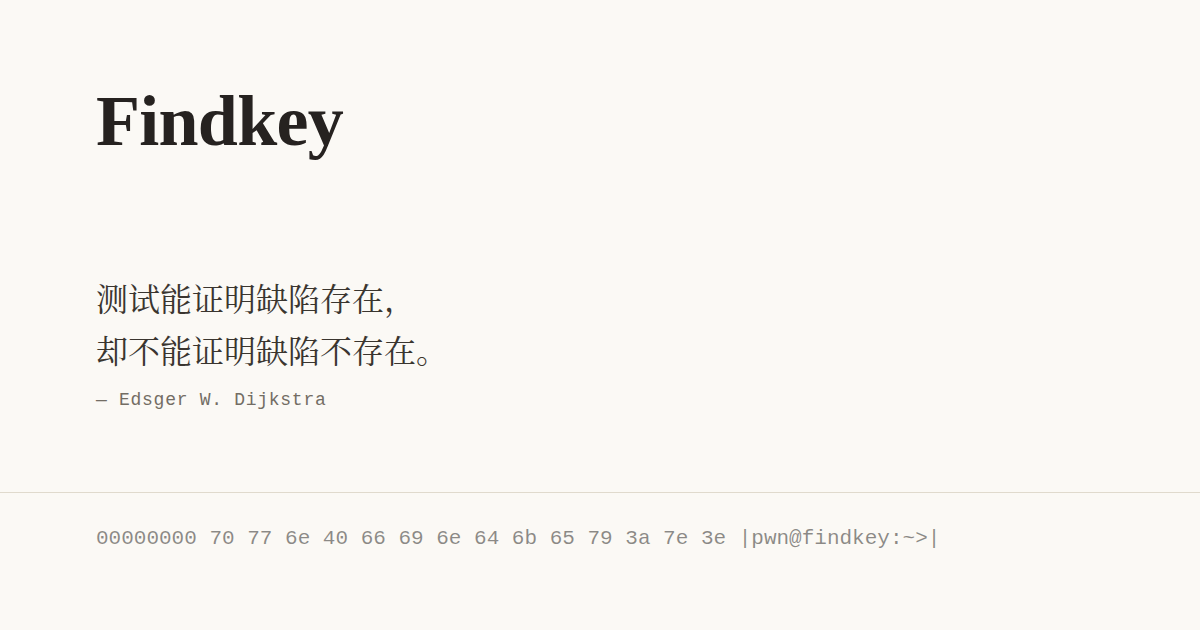
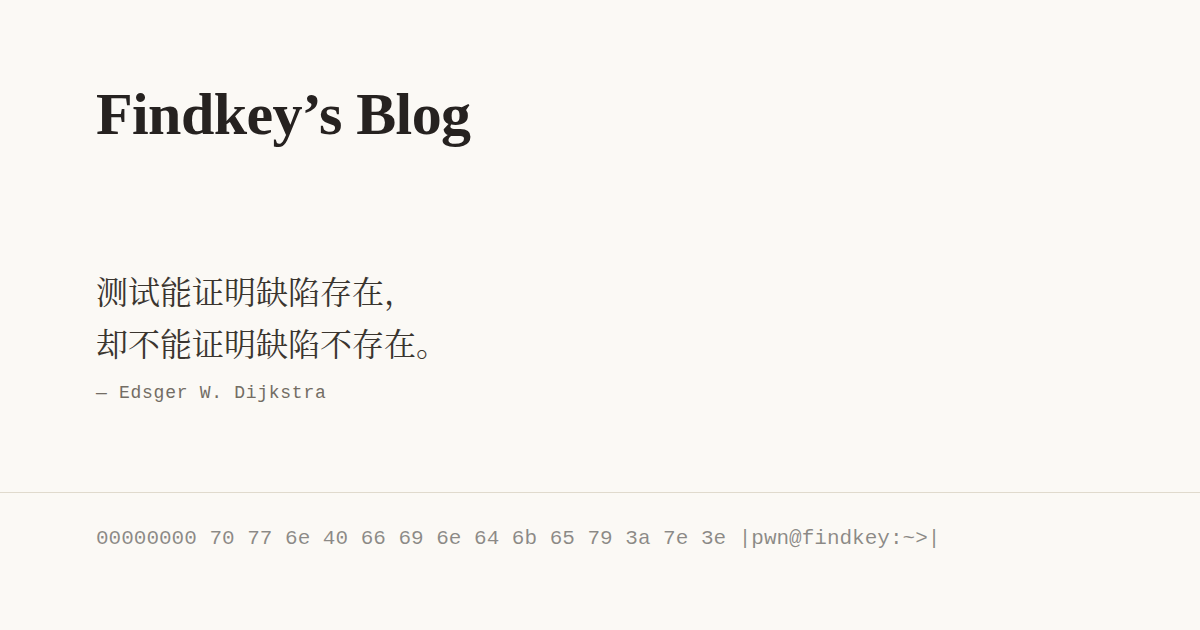
design: 站名分三个字段（标签页 / 内页后缀 / 站头字标）
- title: Findkey · pwn          标签页与 SEO
- shortTitle: Findkey           内页后缀，避免三段式标题
- wordmark: Findkey’s Blog      站头字标（左上）
- og.png 用 wordmark 重做

Changed region(s): [[0.0617, 0.4222, 0.37, 0.6635], [0.0617, 0.1508, 0.4008, 0.2714]]

diff --git a/src/consts.ts b/src/consts.ts
@@ -8,8 +8,12 @@
  *    详见项目根目录 PROJECT.md 的「上线前检查清单」。
  */
 export const SITE = {
-	/** 站点名（浏览器标签、站头字标、分享卡都用它） */
-	title: 'Findkey',
+	/** 浏览器标签页 / SEO 用（短，标签栏里认得出就行） */
+	title: 'Findkey · pwn',
+	/** 内页标题后缀（归档 · Findkey）；比 title 短，避免「友链 · Findkey · pwn」这种三段 */
+	shortTitle: 'Findkey',
+	/** 站头字标（左上那个），可以比 title 长 */
+	wordmark: 'Findkey’s Blog',
 	/** 一句话简介，用于 SEO description、RSS 描述 */
 	description: '二进制漏洞分析与利用（pwn）',
 	/**
